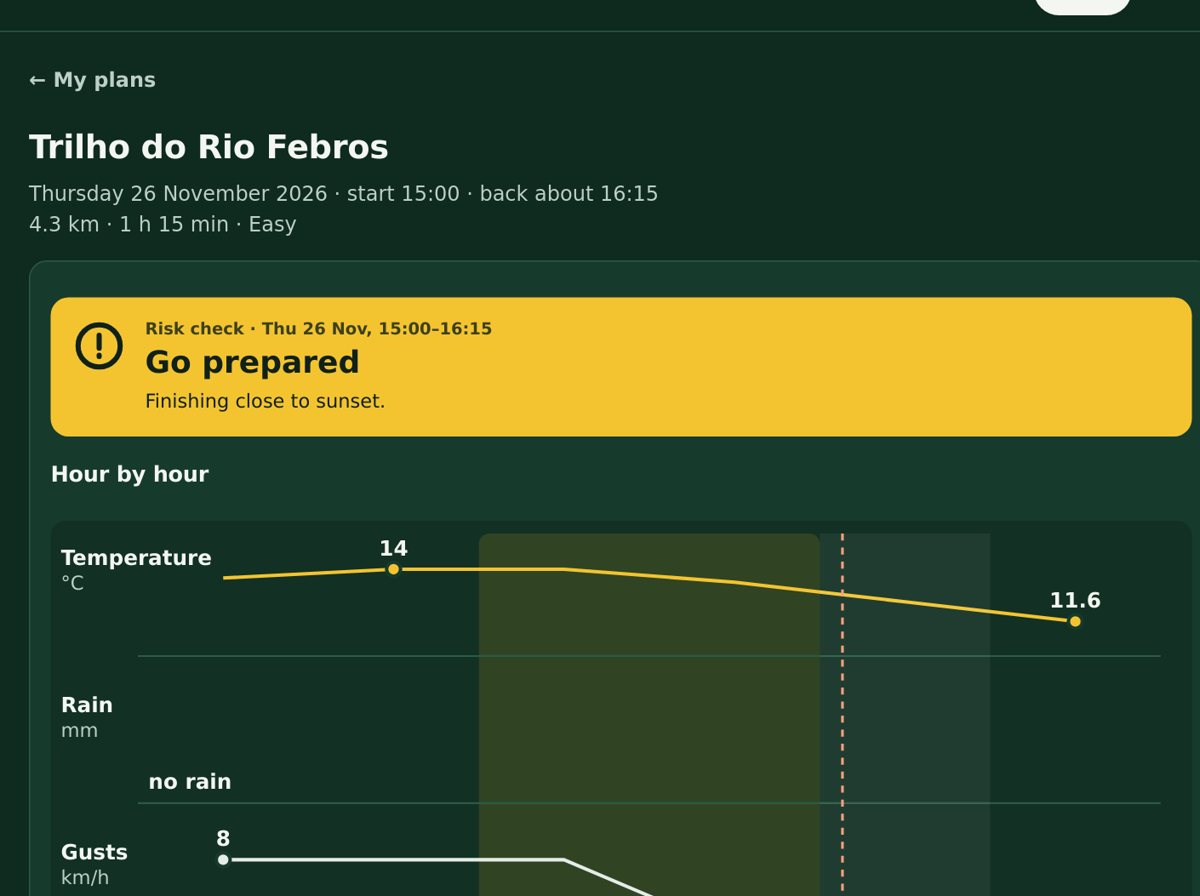
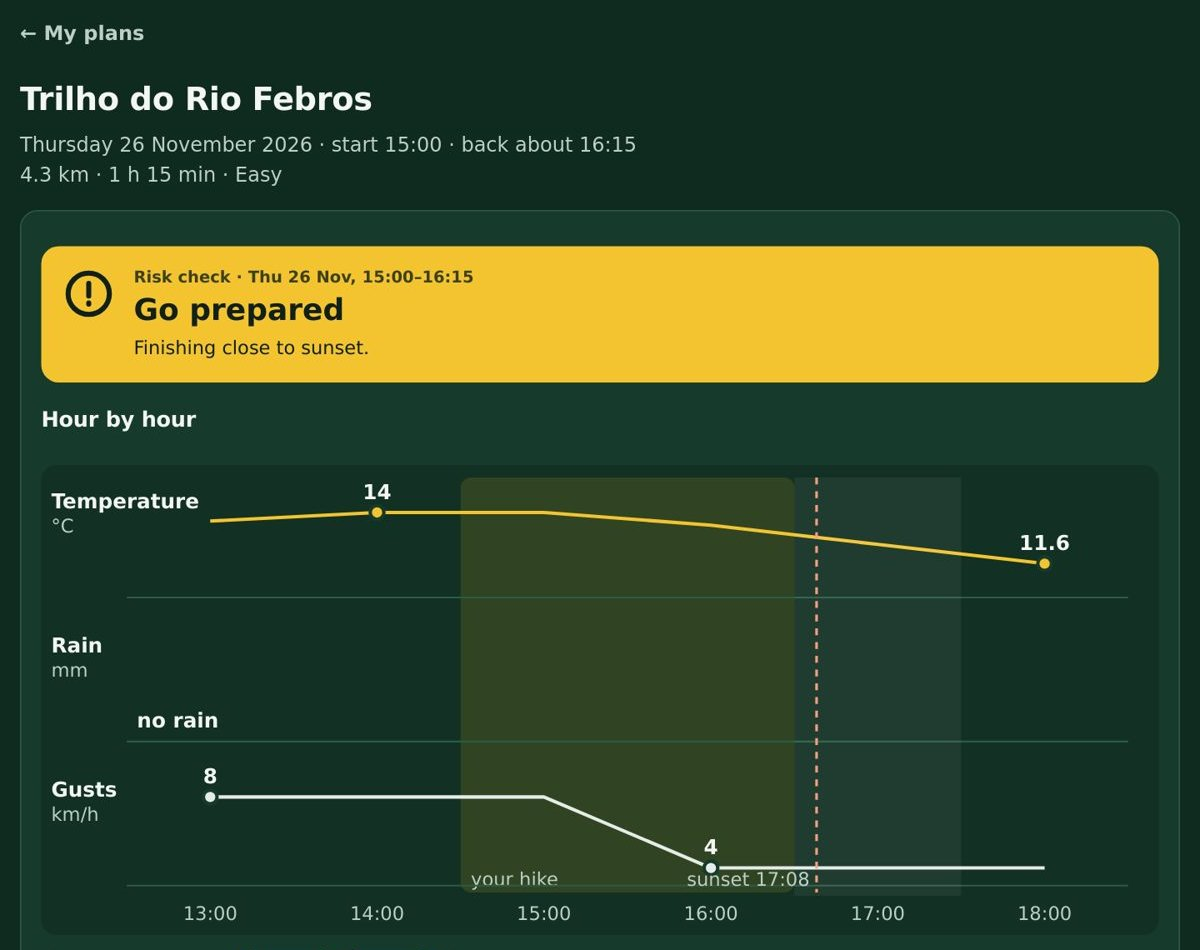
ui: landing screenshots cropped to whole screens, cards same height
Claude-Session: https://claude.ai/code/session_015XqLeV9sYc4cxc4krqARi2

diff --git a/public/assets/app.css b/public/assets/app.css
@@ -664,7 +664,10 @@ button[aria-busy="true"] { opacity: .7; cursor: progress; }
 .dash-grid > *, .tile-list > li { min-width: 0; }
 /* landing v2: showcase, organizer steps, sources & limits, richer trail cards */
 .showcase { display: grid; gap: 12px; grid-template-columns: 1fr; }
-@media (min-width: 820px) { .showcase { grid-template-columns: 1.6fr 1fr; align-items: start; } }
+@media (min-width: 820px) { .showcase { grid-template-columns: 1.6fr 1fr; align-items: stretch; } }
+.showcase figure { display: flex; flex-direction: column; }
+.showcase figure img { border-bottom: 1px solid var(--line); }
+.showcase figcaption { flex: 1; }
 .showcase figure, .show-wide { margin: 0; background: var(--surface); border: 1px solid var(--line); border-radius: var(--radius); overflow: hidden; }
 .showcase img, .show-wide img { display: block; width: 100%; height: auto; }
 .showcase figcaption, .show-wide figcaption { padding: 10px 14px; font-size: 14.5px; color: var(--muted); }

diff --git a/views/home/landing.php b/views/home/landing.php
@@ -43,11 +43,11 @@ $sections = ['features' => 'Features', 'see' => 'See it', 'why' => 'Why TrailSen
     <h2 id="see-h">See it in the app</h2>
     <div class="showcase">
         <figure class="show-main">
-            <img src="<?= e(asset('img/shot-risk.jpg')) ?>" alt="Risk check screen: a yellow 'Go prepared' verdict with the reason 'Finishing close to sunset', then hour-by-hour charts of temperature, rain and gusts with the hike window shaded and the sunset marked, and hourly weather cards." loading="lazy" width="1200" height="896">
+            <img src="<?= e(asset('img/shot-risk.jpg')) ?>" alt="Risk check screen: a yellow 'Go prepared' verdict with the reason 'Finishing close to sunset', then hour-by-hour charts of temperature, rain and gusts with the hike window shaded and the sunset marked, and hourly weather cards." loading="lazy" width="1200" height="950">
             <figcaption><strong>The risk check</strong> — a verdict with its reason, the forecast for your hike hours and what to bring.</figcaption>
         </figure>
         <figure>
-            <img src="<?= e(asset('img/shot-gps.jpg')) ?>" alt="Hike mode on a phone: green banner 'In 270 m · turn left' with an arrow and 'look for the turn-left mark', the route on the map and a compass." loading="lazy" width="780" height="598">
+            <img src="<?= e(asset('img/shot-gps.jpg')) ?>" alt="Hike mode on a phone: green banner 'In 270 m · turn left' with an arrow and 'look for the turn-left mark', the route on the map and a compass." loading="lazy" width="780" height="975">
             <figcaption><strong>On the trail</strong> — turn-by-turn directions, progress and the next climb.</figcaption>
         </figure>
     </div>
